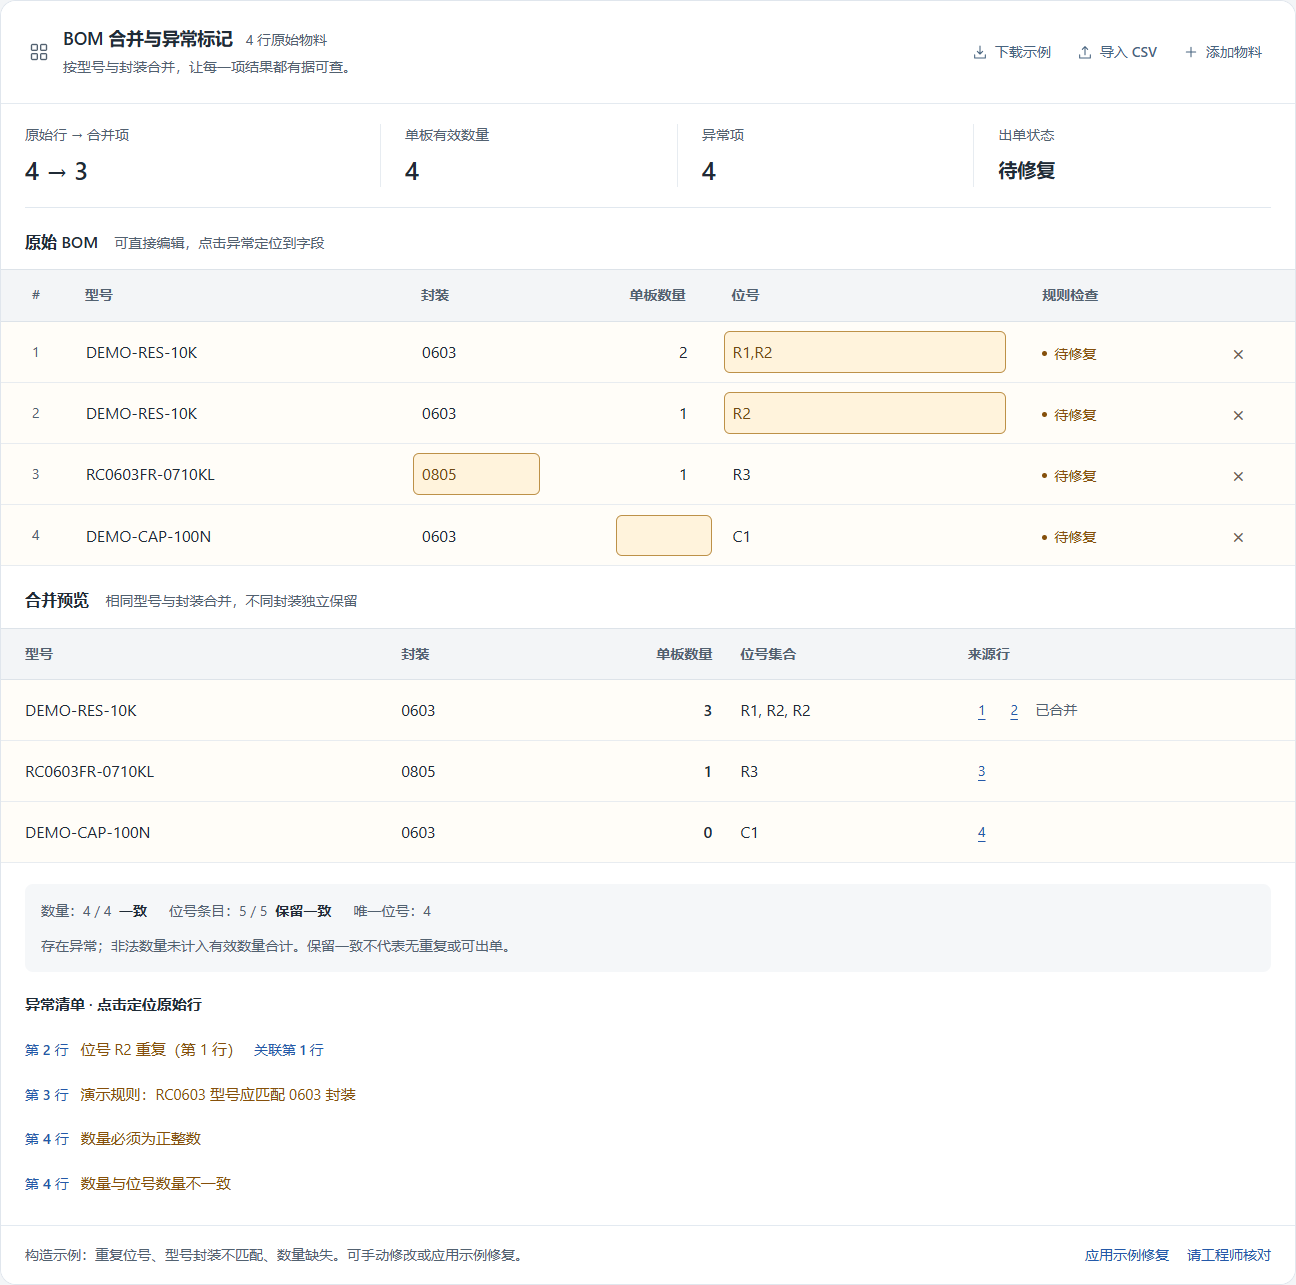
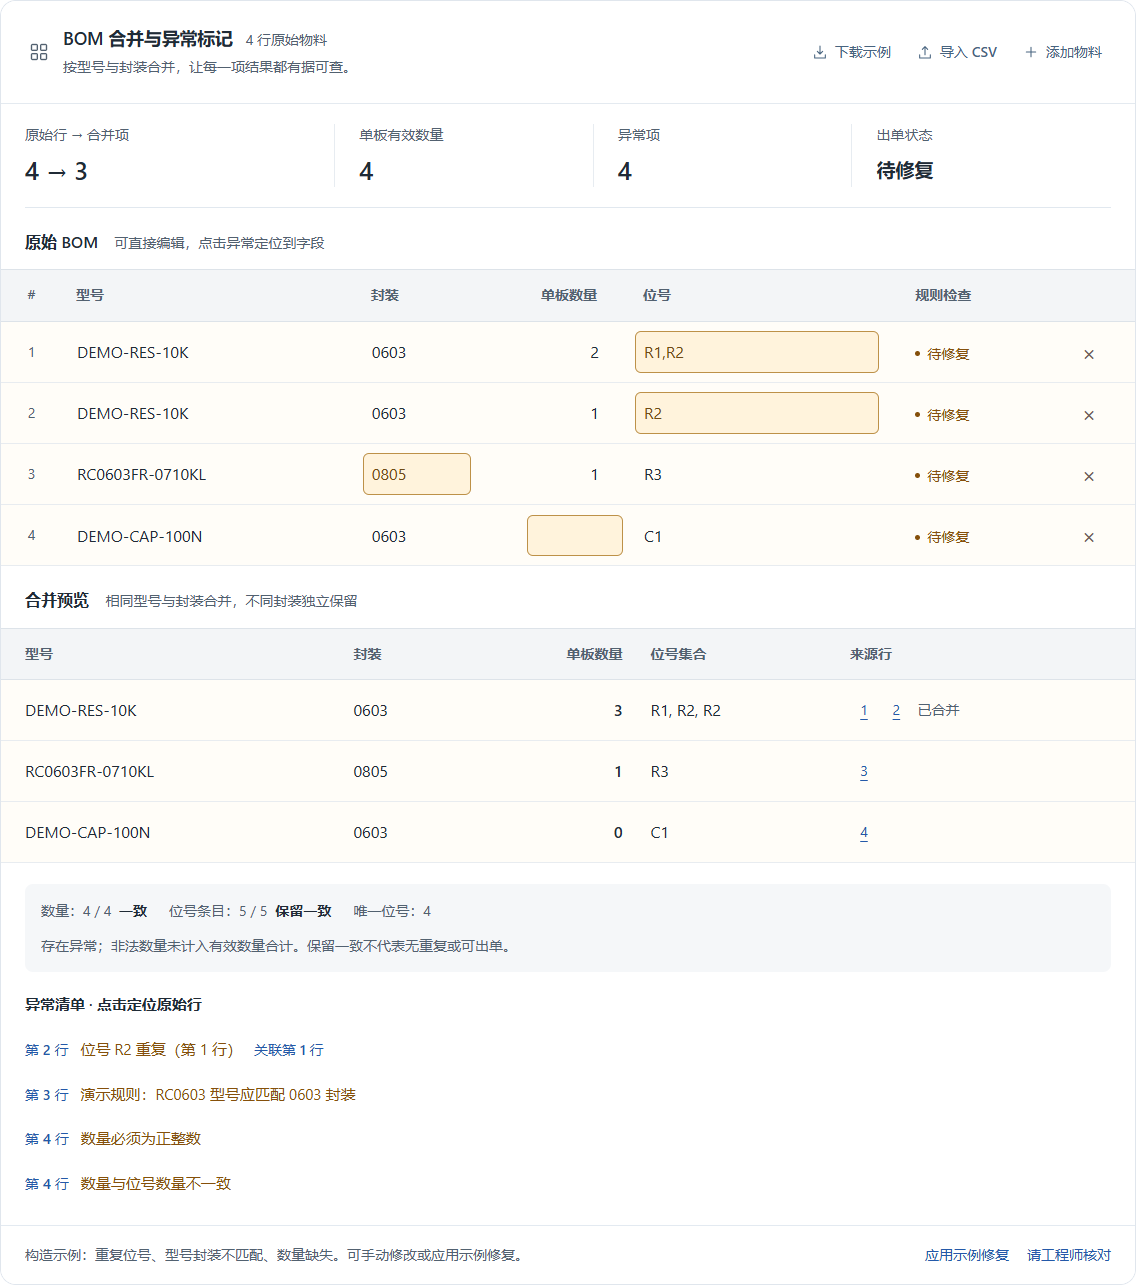
Hide sidebar scrollbar and refresh full-window assistant documentation and screenshots

diff --git a/public/style.css b/public/style.css
@@ -469,6 +469,8 @@ html{scroll-padding-top:calc(var(--topbar-height) + 16px)}
 body.app-shell{min-width:0;min-height:100dvh;padding-top:var(--topbar-height);padding-left:var(--sidebar-width);background:#fff}
 .app-shell main{max-width:none;width:100%;min-height:calc(100dvh - var(--topbar-height));margin:0;padding:0}
 .app-shell .shell-sidebar{position:fixed;inset:0 auto 0 0;z-index:50;width:var(--sidebar-width);display:flex;flex-direction:column;gap:0;padding:32px 20px 24px;background:#f1f4f7;border-right:1px solid #e1e6ec;overflow-y:auto;overscroll-behavior:contain}
+.app-shell .shell-sidebar{scrollbar-width:none}
+.app-shell .shell-sidebar::-webkit-scrollbar{display:none;width:0;height:0}
 .sidebar-brand{display:flex;align-items:center;justify-content:space-between;gap:12px;padding:0 4px}
 .app-shell .brand{font-size:26px;font-weight:600;gap:12px;color:var(--navy)}
 .app-shell .brand small{font-size:13px;color:var(--muted);line-height:1.5;margin-top:5px}
